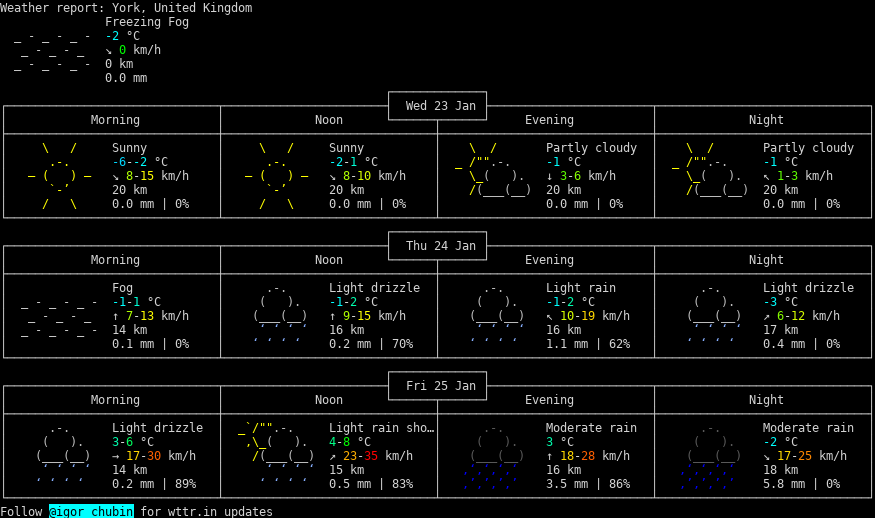
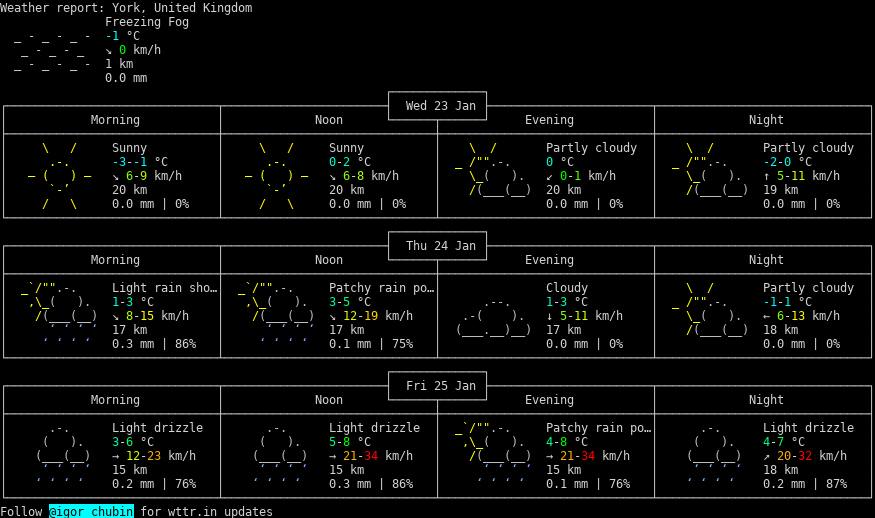
update Today's log:)

diff --git a/README.md b/README.md
@@ -275,3 +275,4 @@ Shell_scripting fun example during Linux OS class with my students
 * 22-01-2019 Tue AM 12:00 GMT   : -1-3°C (Scarborough, United Kingdom)
 * 22-01-2019 Tue AM  6:00 GMT   : -1-3°C (Scarborough, United Kingdom)
 * 23-01-2019 Wed PM 12:00 GMT   : -5--1°C (Coventry, United Kingdom)
+* 23-01-2019 Wed PM  6:00 GMT   : -2-0°C (Scarborough, United Kingdom)

diff --git a/weather.md b/weather.md
@@ -1055,3 +1055,7 @@
 
 ![](img/23-01-2019.png)
 
+23-01-2019
+
+![](img/23-01-2019.png)
+
